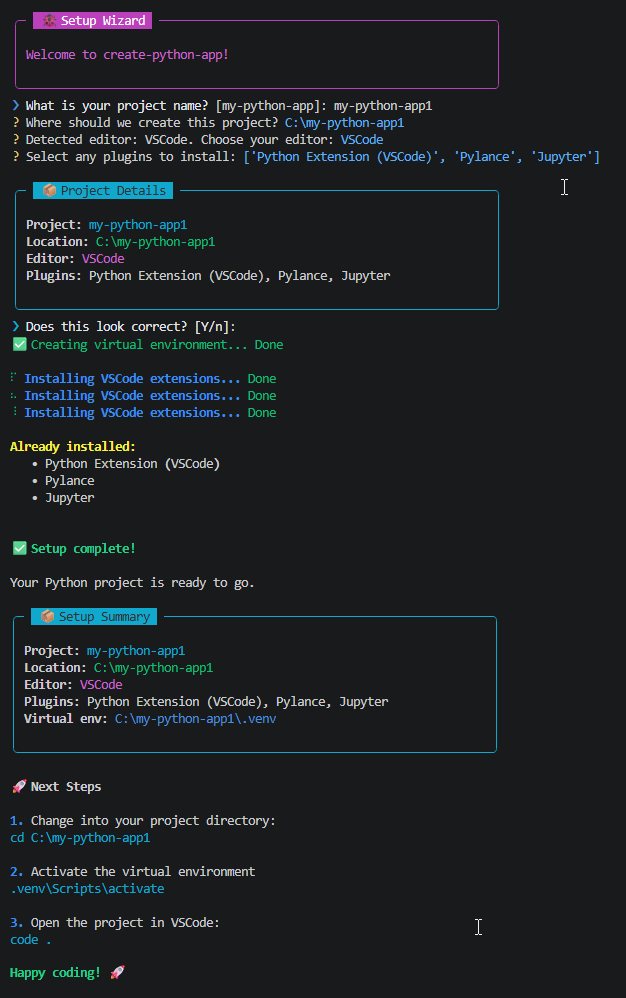
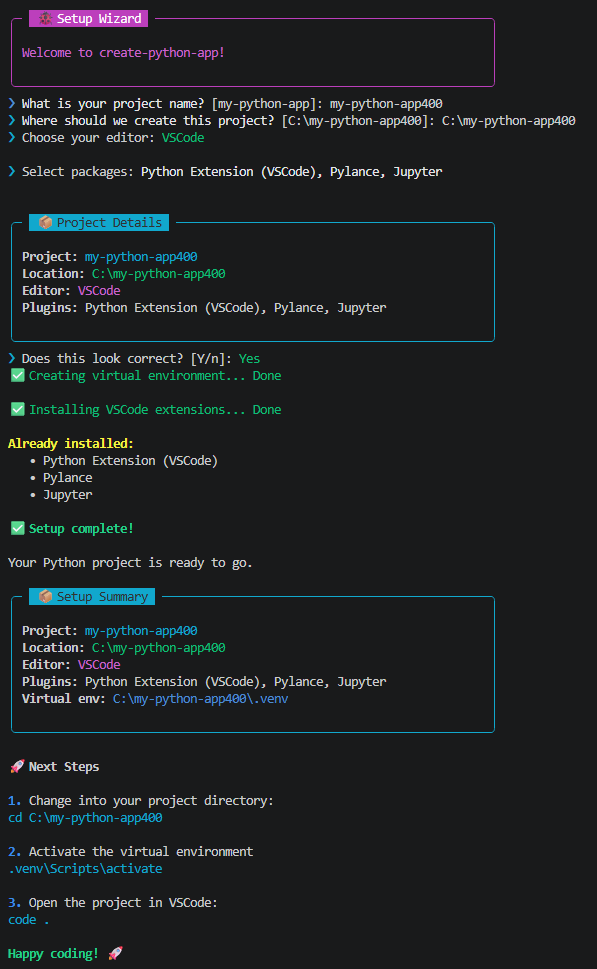
docs: add branding assets and improve README

diff --git a/README.md b/README.md
@@ -1,8 +1,22 @@
-# create-python-app
+<p align="center">
+    <img src="images/cpa-logo.png">
+    <h3 align="center">Build. Code. Launch.</h3>
+</p>
 
-A guided command-line wizard for creating new Python projects in minutes.
 
-create-python-app is a guided command-line wizard that creates a project structure, configures your development environment, creates a virtual environment, and helps you start coding quickly with sensible defaults.
+![Static Badge](https://img.shields.io/badge/Python-3.13.7-3776AB)
+![Static Badge](https://img.shields.io/badge/Pytest-0A9EDC)
+![Static Badge](https://img.shields.io/badge/Coverage-100%25-4CAF50) 
+![Static Badge](https://img.shields.io/badge/License-MIT-purple) 
+
+create-python-app is a guided command-line wizard that helps developers create new Python projects in minutes.
+
+It creates a clean project structure, sets up a virtual environment, and can install recommended editor extensions to help you start coding quickly.
+
+
+## Screenshot
+
+![Example output for creating a site](images/happy-path.png)
 
 
 ## Why create-python-app?
@@ -60,11 +74,26 @@ The aim is simple:
 ✅ Clear next-step guidance after project creation
 
 
+## Who is this for?
 
-## Screenshot
+create-python-app is ideal for:
 
-![Example output for creating a site](images/happy-path.png)
+- Developers starting new Python projects
+- Students learning Python
+- Developers who want a quick, repeatable setup process
+- Anyone who prefers sensible defaults over extensive configuration
 
+
+## Platform Support
+
+Currently tested on:
+
+- Windows ✅
+ 
+Future releases aim to support:
+
+- Linux
+- macOS
 
 
 ## Installation
@@ -124,6 +153,7 @@ Result:
 my-python-app/
 │
 ├── .venv/
+├── docs/
 ├── src/
 ├── tests/
 ├── README.md
@@ -152,11 +182,7 @@ https://create-python-app.dev
 
 ## Roadmap
 
-See:
-
-ROADMAP.md
-
-for upcoming features and planned improvements.
+See [ROADMAP.md](ROADMAP.md) for upcoming features and planned improvements.
 
 ---
 
